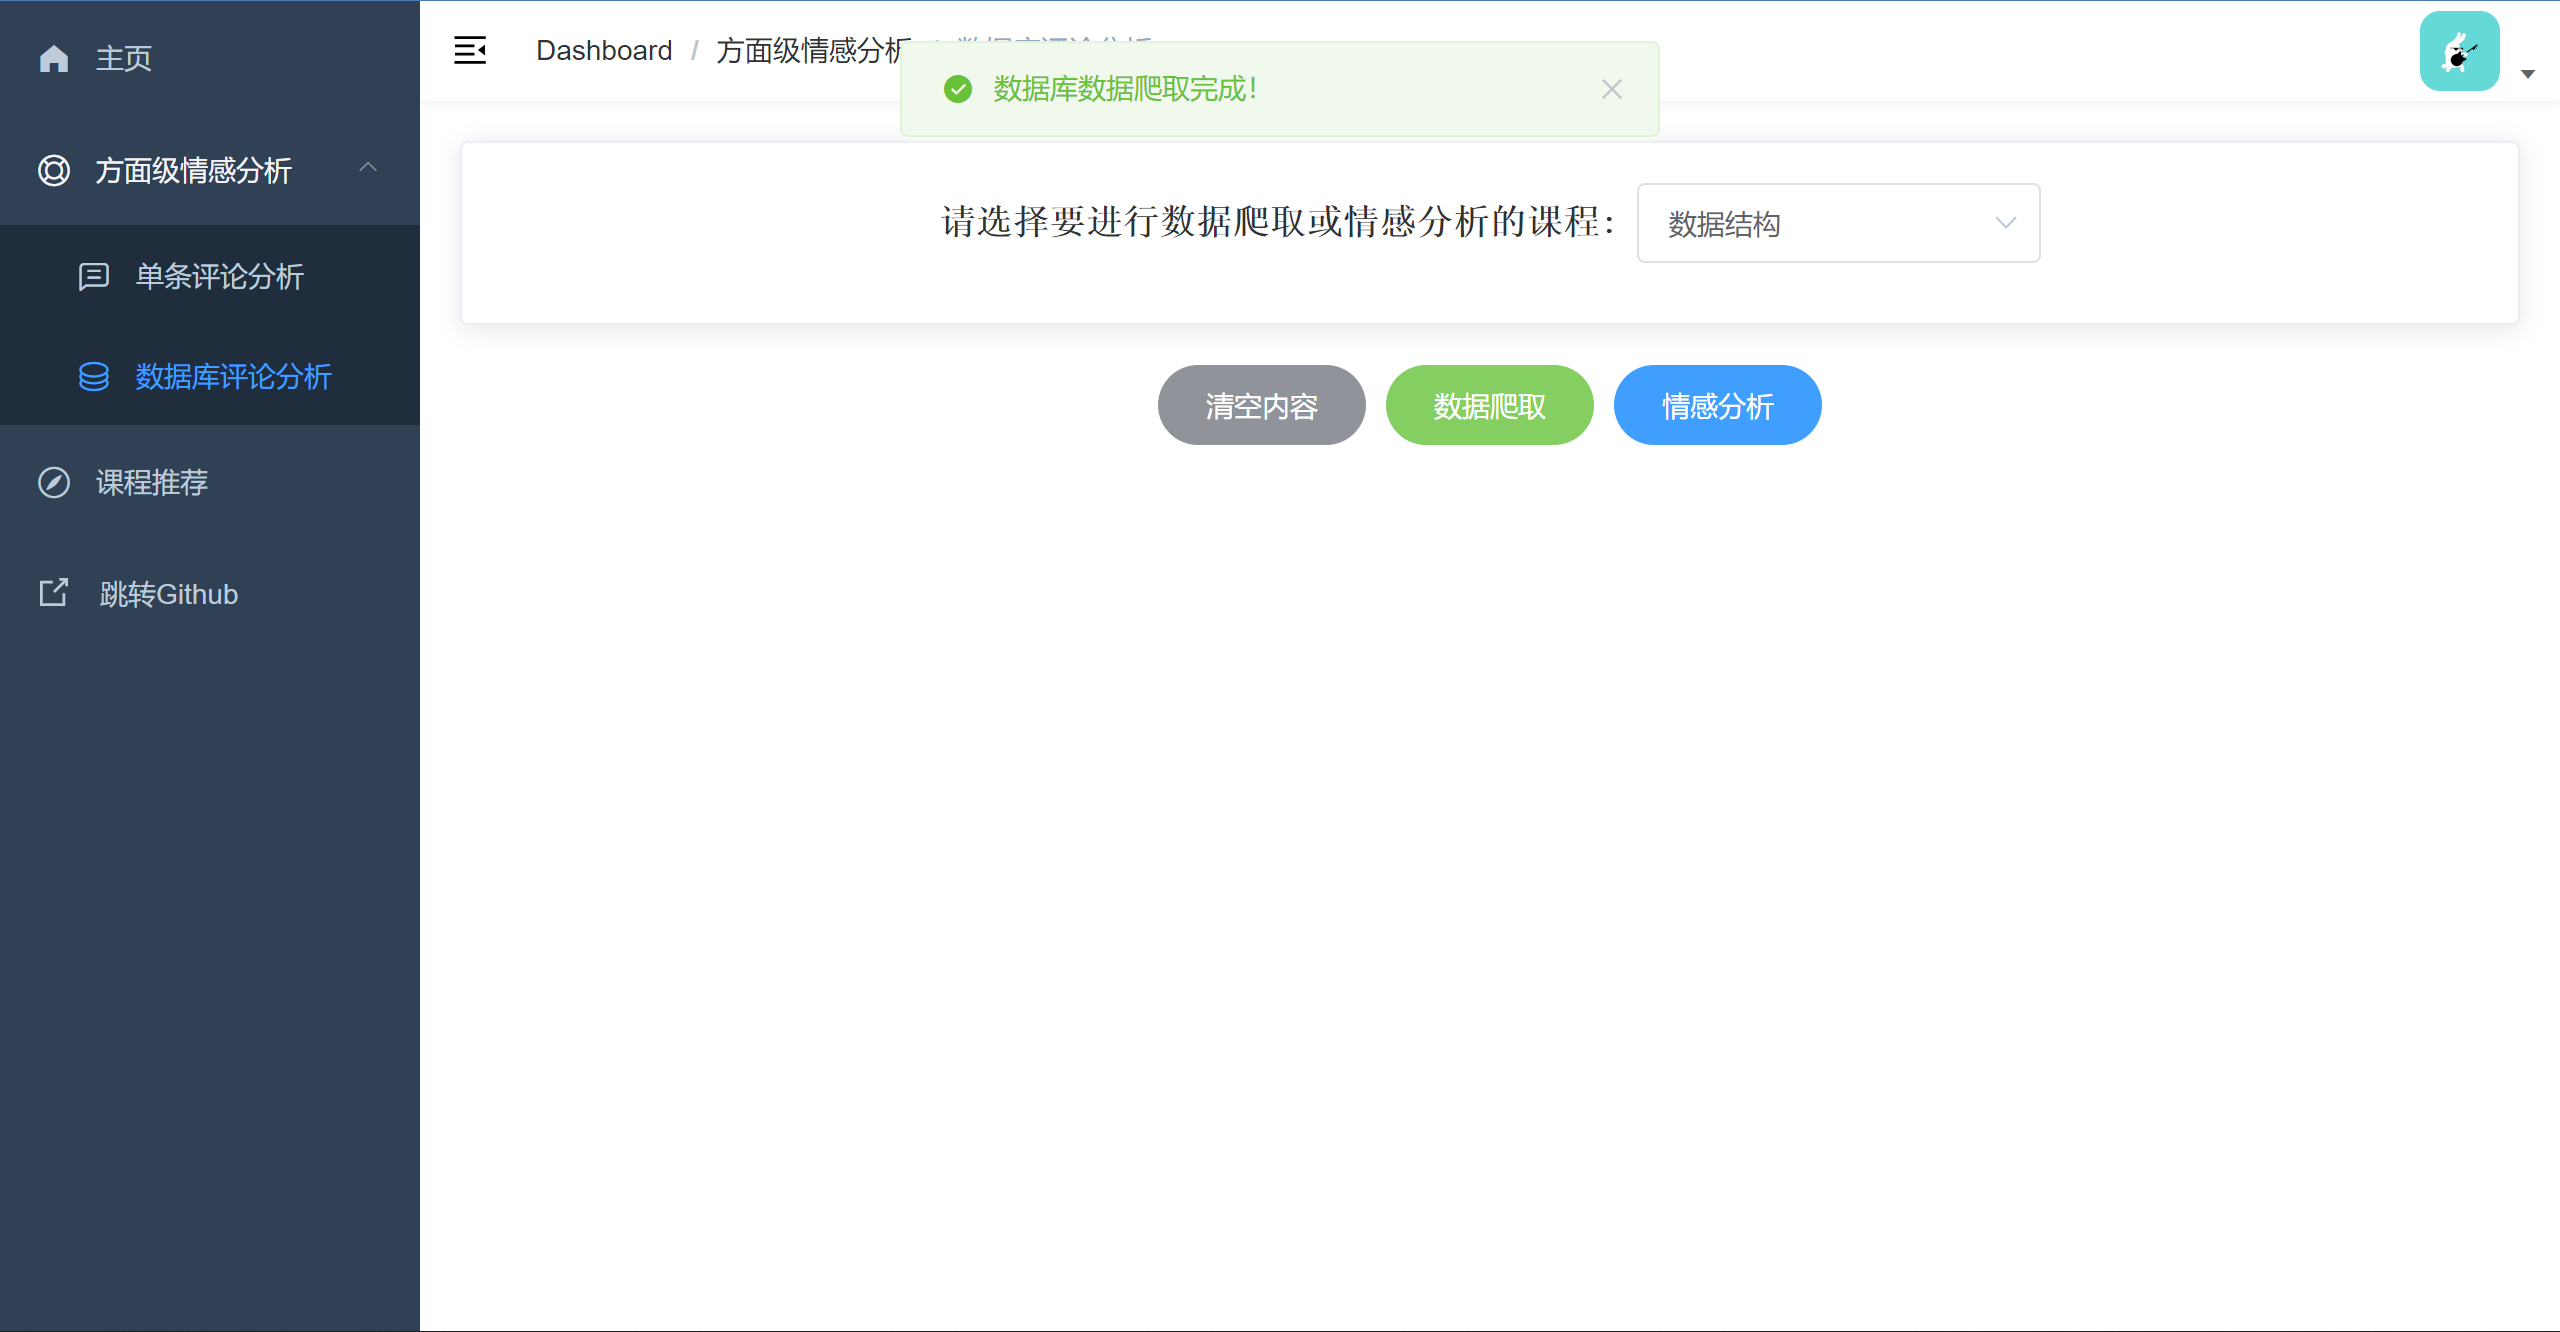
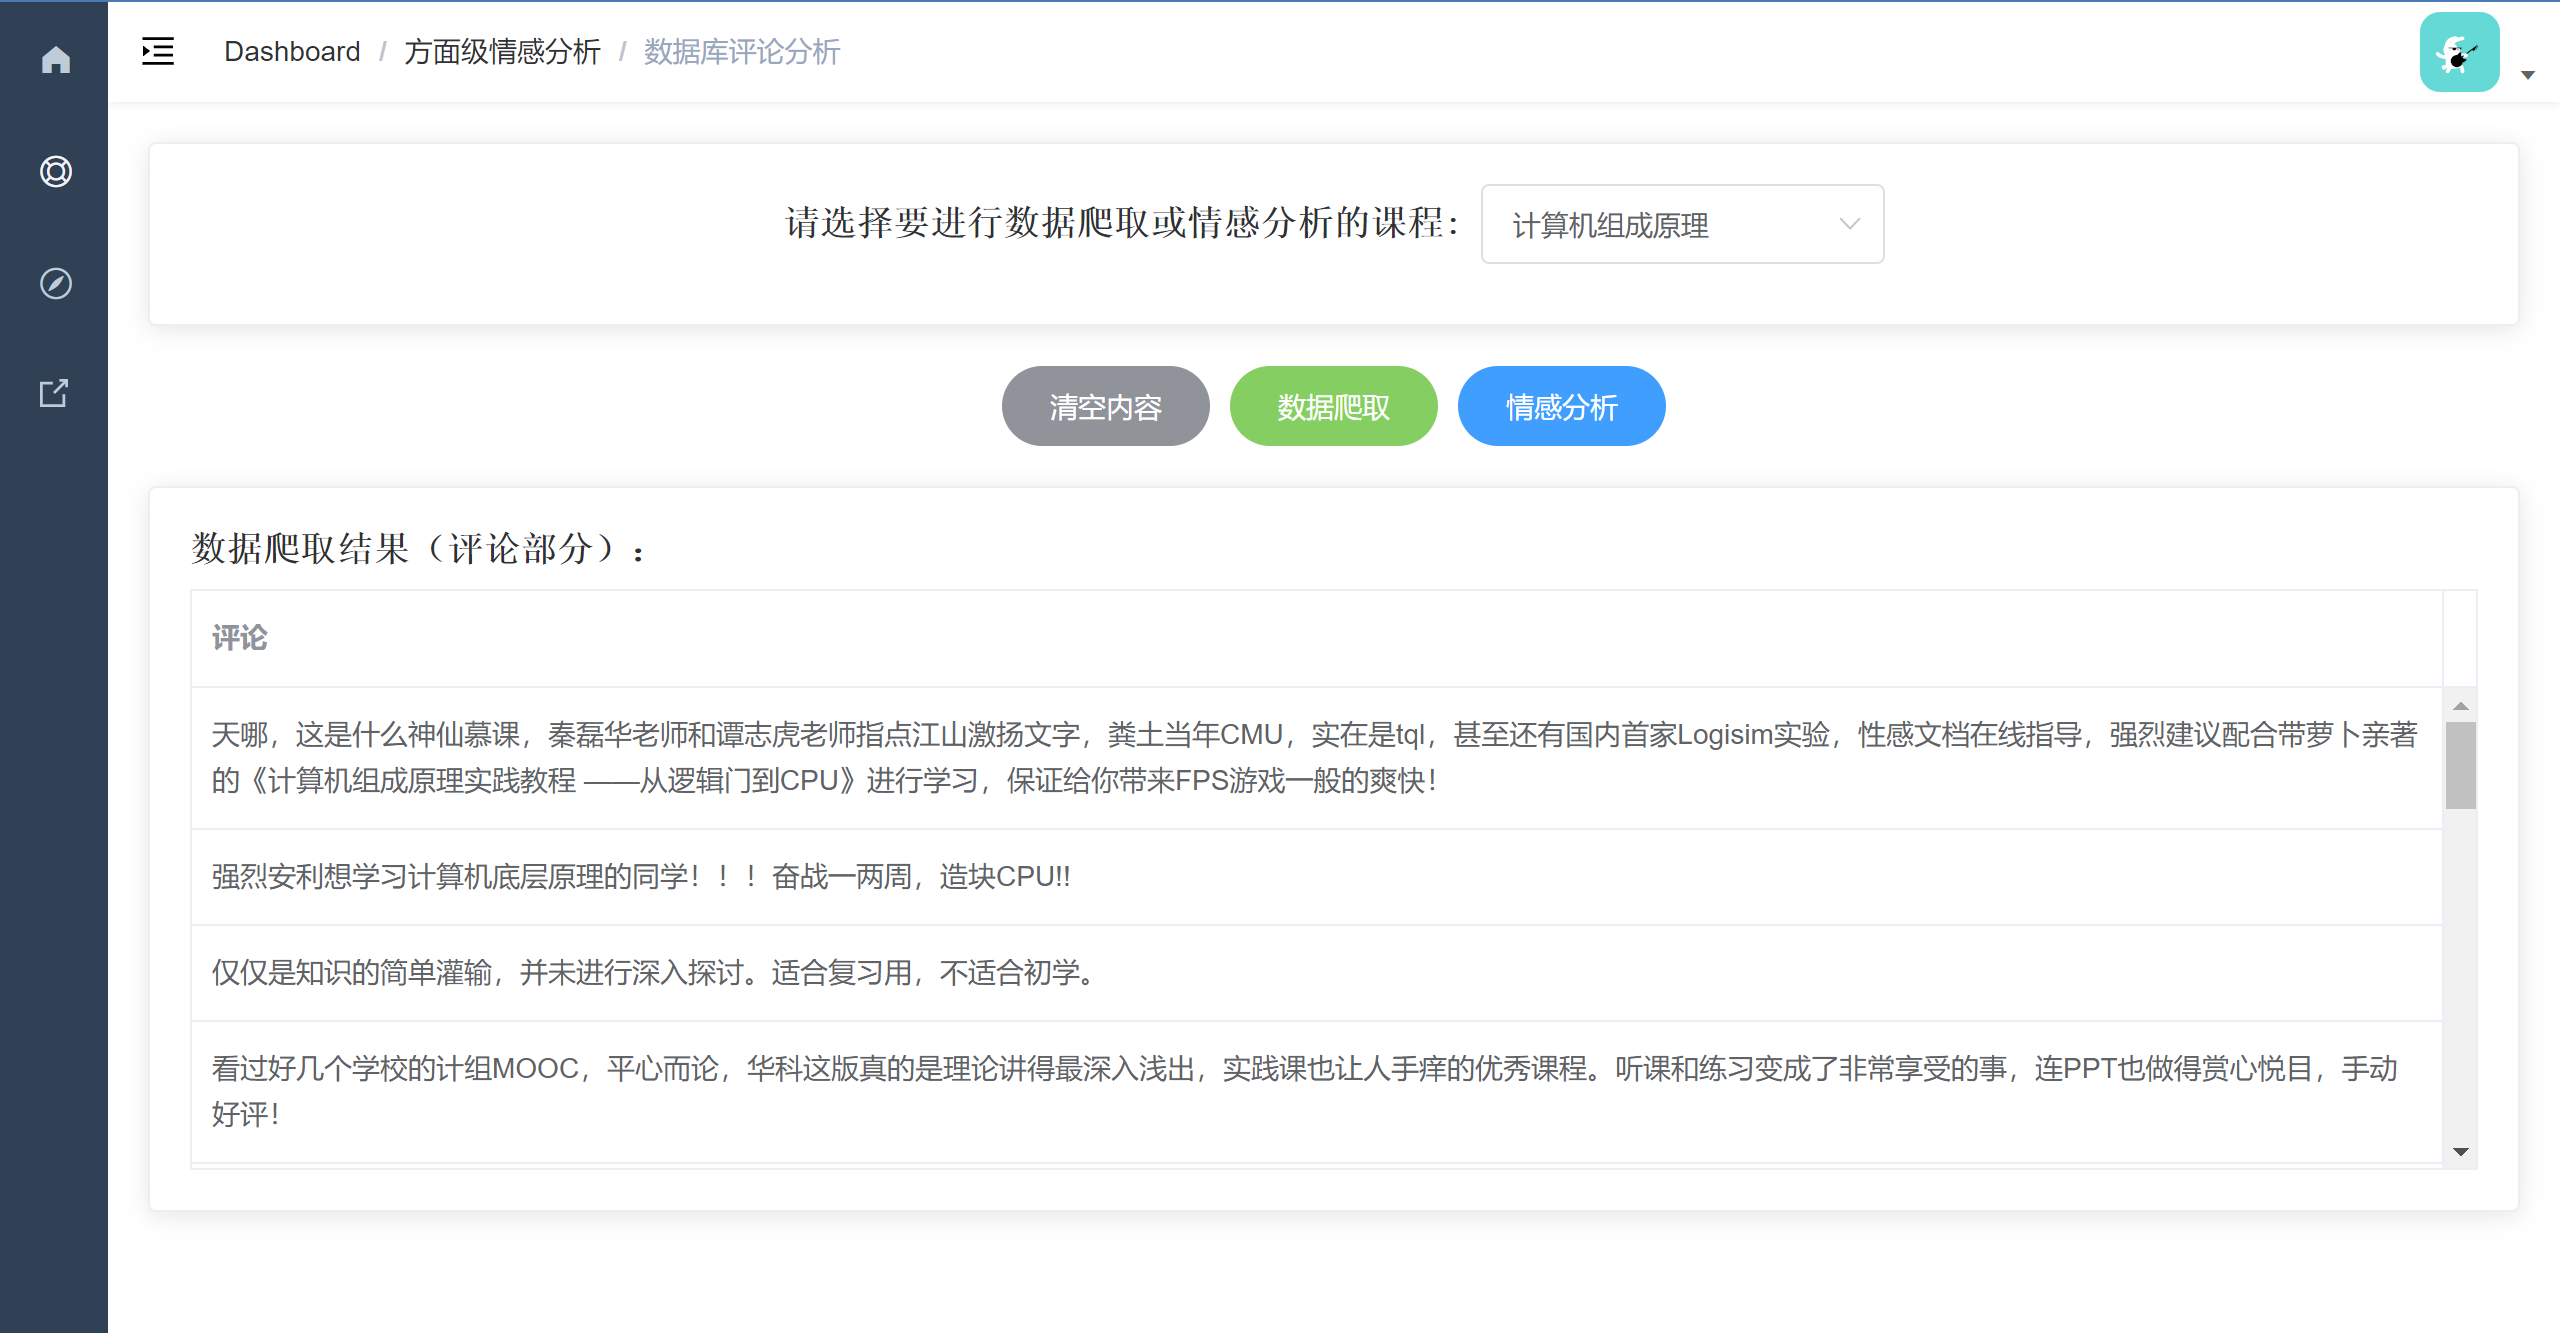
数据爬取的结果（评论部分）UI展示

diff --git a/frontend/src/views/dbAnalysis/index.vue b/frontend/src/views/dbAnalysis/index.vue
@@ -20,6 +20,24 @@
         <el-button type="primary" round @click="dbEmotionAnalysis()">情感分析</el-button>
         <!-- <el-button type="success" round @click="saveResult()">保存结果</el-button> -->
     </el-row>
+
+    <el-card v-show="sp_visible" class="box-card">
+      <div v-show="sp_visible" class="tip">
+        数据爬取结果（评论部分）：
+      </div>
+      <el-table
+        :data="spiderResults"
+        height="290"
+        border
+        style="width: 100%"
+      >
+        <el-table-column
+          prop="comment"
+          label="评论"
+        />
+      </el-table>
+    </el-card>
+
     <el-card v-show="visible" class="box-card">
       <div v-show="visible" class="tip">
         数据库情感分析结果：
@@ -88,6 +106,7 @@ export default {
   data() {
     return {
       analysisResults: '',
+      spiderResults: '',
       aspect_wc_data: '',
       aspect_hist_x_data: '',
       aspect_hist_y_data: '',
@@ -99,6 +118,7 @@ export default {
       aspect_sentiment_positives: '',
       aspect_sentiment_negatives: '',
       visible: false,
+      sp_visible: false,
       aw_visible: false,
       ah_visible: false,
       aow_visible: false,
@@ -124,9 +144,11 @@ export default {
   methods: {
     clear() {
       var that = this
-      that.value = ''
+      that.course_key = ''
       that.analysisResults = ''
+      that.spiderResults = ''
       that.visible = false
+      that.sp_visible = false
       that.$message({
         showClose: true,
         message: '选择内容已清空！',
@@ -213,18 +235,21 @@ export default {
           message: '请先选择要进行数据库数据爬取的课程！',
           type: 'warning'
         })
-        that.analysisResults = ''
-        that.visible = false
+        that.spiderResults = ''
+        that.sp_visible = false
         return
       }
+      that.sp_visible = true
       that.$message({
         showClose: true,
         message: '数据库数据爬取开始！请稍等！',
         type: 'success'
       })
       axios.post('http://127.0.0.1:8000/v1/spiderToDb', {
-          text: that.course_key
-        }).then((response) => {
+        course_key: that.course_key
+      }).then((response) => {
+        // 获取接口返回的情感分析预测结果并更新界面数据
+        that.spiderResults = response.data.spiderResults
         that.$message({
           showClose: true,
           message: '数据库数据爬取完成！',
@@ -232,6 +257,8 @@ export default {
         })
       }).catch((error) => {
         console.log(error)
+        that.spiderResults = ''
+        that.visible = false
         that.$message({
           showClose: true,
           message: '请求异常，请检查后端服务模块！',

diff --git a/backend/main.py b/backend/main.py
@@ -9,7 +9,7 @@ from fastapi.middleware.cors import CORSMiddleware
 from pydantic import BaseModel
 from collections import defaultdict
 from backend.unified_sentiment_extraction.predict import *
-from backend.recommend.predict import *
+from backend.recommend.main import *
 from spider.main import spider_to_db
 
 
@@ -108,9 +108,10 @@ def main():
 
     # 定义请求体数据类型：text  用户输入的要进行方面级情感分析的文本
     class Document(BaseModel):
-        course_key: str
-        concern_category: str
-        difficulty_coefficient: str
+        text: str = ""
+        course_key: str = ""
+        concern_category: str = ""
+        difficulty_coefficient: str = ""
 
     # 定义路径操作装饰器：POST方法 + API接口路径
     # 单文本情感分析接口
@@ -364,10 +365,15 @@ def main():
     async def spiderToDb(document: Document):
         try:
             # 获取用户选择的课程关键词
-            course_key = document.text
+            course_key = document.course_key
             # 数据库数据爬取
-            spider_to_db(course_key)
-            return {"message": "success"}
+            comments_list = spider_to_db(course_key)
+            spiderResults = [{"comment": comment} for comment in comments_list]
+            print(spiderResults)
+            return {
+                "message": "success",
+                "spiderResults": spiderResults
+            }
         except Exception as e:
             print("异常信息：", e)
             raise HTTPException(status_code=500, detail=str("请求失败，服务器端发生异常！异常信息提示：" + str(e)))

diff --git a/backend/spider/main.py b/backend/spider/main.py
@@ -25,6 +25,8 @@ def spider_to_db(course_key):
         driver = webdriver.Chrome(options=options)
         driver.maximize_window()
 
+        comments_list = []
+
         course_url = 'https://www.icourse163.org/search.htm?search=' + course_key + '#/'
         university_link_list = get_courses_url(course_url, driver)
         for university_link in university_link_list:
@@ -53,6 +55,7 @@ def spider_to_db(course_key):
         driver.quit()
         cursor.close()
         conn.close()
+        return comments_list
 
 if __name__ == "__main__":
     spider_to_db("数据结构")
